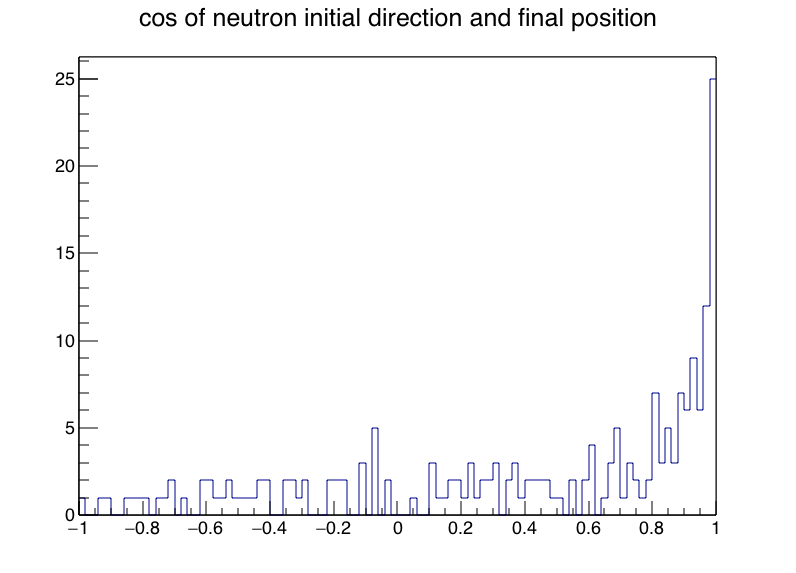
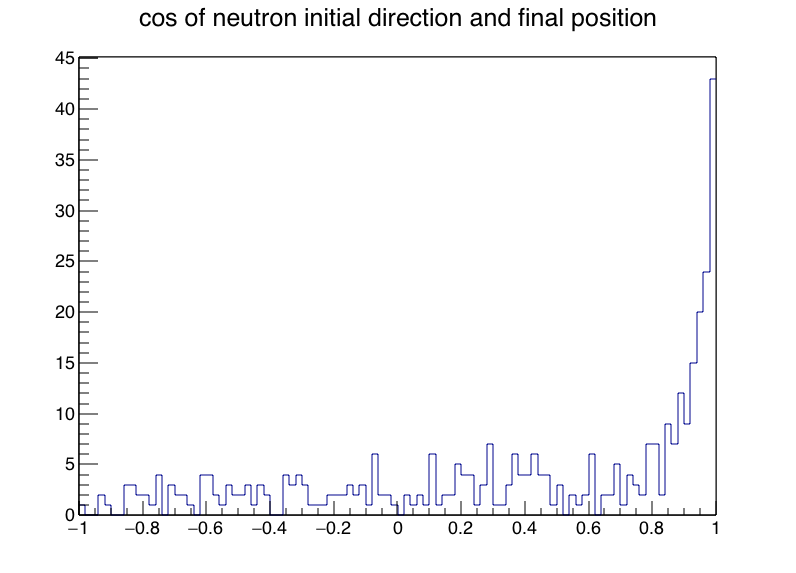
fixed ex script to ignore escaping neutrons

diff --git a/neutron_anglular_res.py b/neutron_anglular_res.py
@@ -10,8 +10,8 @@ if len(sys.argv)>=2:
 
 reader = DSReader(inputfile) # scintillation+reflections
 nevents = reader.GetTotal()
-if nevents>200:
-    nevents = 200
+if nevents>400:
+    nevents = 400
 
 print "MC file has ",nevents,"events"
 
@@ -62,8 +62,9 @@ for iev in xrange(0,nevents):
     #print "neutron final position: ",tracknode.GetEndpoint().X(),tracknode.GetEndpoint().Y(),tracknode.GetEndpoint().Z()
     #print "neutron travel direction: ",n_dir.X(),n_dir.Y(),n_dir.Z()
     n_cos = n_dir.X()*n_initdir.X() + n_dir.Y()*n_initdir.Y() + n_dir.Z()*n_initdir.Z()
-    #print "Neutron travel cos: ",n_cos
-    hncos.Fill( n_cos )
+    print "Neutron travel cos: ",n_cos," last process=",tracknode.GetProcess()
+    if tracknode.GetProcess()=="NeutronInelastic":
+        hncos.Fill( n_cos )
 
 out.Write()
 
